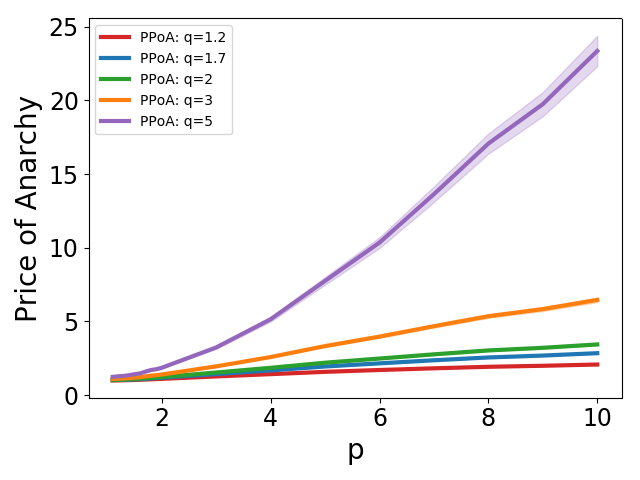
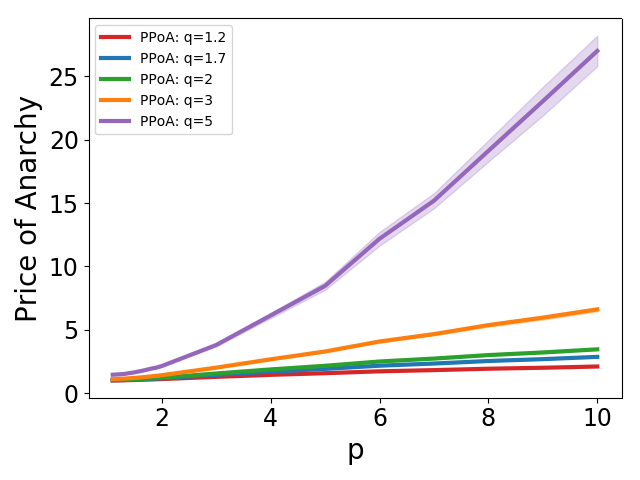
re-run experients

diff --git a/plot_from_csv.py b/plot_from_csv.py
@@ -2,64 +2,143 @@
 import csv
 import sys
 import matplotlib.pyplot as plt
+import numpy as np
+from constants import NUM_SIMS, ERROR_P, LEN_ERROR_P
 
-
-def plot(x_vals, xlabel, name, br_time_vals, sc_vals, sc_l1_vals=None, log=False):
+def plot(x_vals, xlabel, name, br_time_vals, br_vars, sc_vals, sc_vars, sc_l1_vals=None, sc_l1_vars=None, log=False):
     """ Plot the best response, iterations, social cost of equilibrium regression
     and social cost of L1 regression - all in one plot"""
-
     fig, ax1 = plt.subplots()
     color = 'tab:red'
-    ax1.set_xlabel(xlabel)
-    ax1.set_ylabel('BR Iterations', color=color)
+    #ax1.set_ylabel('BR Updates', color=color, fontsize=21)
     if log == True:
-        ax1.semilogx(x_vals, br_time_vals, color=color)
+        ax1.semilogx(x_vals, br_time_vals, color=color, linewidth=4)
+        ax1.fill_between(x_vals, br_time_vals-br_vars, br_time_vals+br_vars, color=color, alpha=0.35)
     else:
-        ax1.plot(x_vals, br_time_vals, color=color)
-    ax1.tick_params(axis='y', labelcolor=color)
-
+        ax1.plot(x_vals, br_time_vals, color=color, linewidth=4)
+        ax1.fill_between(x_vals, br_time_vals-br_vars, br_time_vals+br_vars, color=color, alpha=0.35)
+    ax1.tick_params(axis='x', labelsize=17)
+    ax1.tick_params(axis='y', labelcolor=color, labelsize=17)
+    
     color = 'tab:blue'
     ax2 = ax1.twinx()
-    ax2.set_ylabel('Social Cost', color=color)
+    ax2.set_ylabel('Price of Anarchy', color=color, fontsize=21)
     if log == True:
-        ax2.semilogx(x_vals, sc_vals, color=color)
+        ax2.semilogx(x_vals, sc_vals, color=color, linewidth=4)
+        ax2.fill_between(x_vals, sc_vals-sc_vars, sc_vals+sc_vars, color=color, alpha=0.25)
     else:
-        ax2.plot(x_vals, sc_vals, color=color)
+        ax2.plot(x_vals, sc_vals, color=color, linewidth=4)
+        ax2.fill_between(x_vals, sc_vals-sc_vars, sc_vals+sc_vars, color=color, alpha=0.25)
     
     if sc_l1_vals is not None:
         if log == True:
-            ax2.semilogx(x_vals, sc_l1_vals, color=color, linestyle=":")
+            ax2.semilogx(x_vals, sc_l1_vals, color=color, linestyle=":", linewidth=4)
         else:
-            ax2.plot(x_vals, sc_l1_vals, color=color, linestyle=':')
+            ax2.plot(x_vals, sc_l1_vals, color=color, linestyle=':', linewidth=4)
     
-    ax2.tick_params(axis='y', labelcolor=color)
-    plt.grid(True)
+    ax2.tick_params(axis='y', labelcolor=color, labelsize=17)
+    plt.grid(False)
     
     plt.tight_layout()
     plt.savefig(name)
     #plt.show()
 
+def plot_over_p(x_vals, xlabel, name, sc_vals, sc_vars, sc_l1_vals=None, sc_l1_vars=None, log=False):
+    """ Plot the best response, iterations, social cost of equilibrium regression
+    and social cost of L1 regression - all in one plot"""
+    fig, ax1 = plt.subplots()
+    colors = ['tab:red', 'tab:blue', 'tab:green', 'tab:orange', 'tab:purple']
+    ax1.set_xlabel('p', color='black', fontsize=20)
+    ax1.set_ylabel('Price of Anarchy', color='black', fontsize=20)
+    for i in range(LEN_ERROR_P):
+        if log == True:
+            ax1.semilogx(x_vals, sc_vals[i], color=colors[i], linewidth=3)
+            ax1.fill_between(x_vals, sc_vals[i]-sc_vars[i], sc_vals[i]+sc_vars[i], color=colors[i], alpha=0.25)
+        else:
+            ax1.plot(x_vals, sc_vals[i], color=colors[i], linewidth=3)
+            ax1.fill_between(x_vals, sc_vals[i]-sc_vars[i], sc_vals[i]+sc_vars[i], color=colors[i], alpha=0.25)
+        
+        if sc_l1_vals is not None:
+            if log == True:
+                ax1.semilogx(x_vals, sc_l1_vals[i], color=colors[i], linestyle=":", linewidth=4)
+            else:
+                ax1.plot(x_vals, sc_l1_vals[i], color=colors[i], linestyle=':', linewidth=4)
+    
+    legends = ['PPoA: q=1.2', 'PPoA: q=1.7', 'PPoA: q=2', 'PPoA: q=3', 'PPoA: q=5']
+    ax1.legend(legends)
+    ax1.tick_params(axis='x', labelsize=17)
+    ax1.tick_params(axis='y', labelcolor='black', labelsize=17)
+    plt.grid(False)
+    
+    plt.tight_layout()
+    plt.savefig(name)
+
 def read_from_csv(filename):
     csv_file = open(filename, mode='r')
     csv_reader = csv.reader(csv_file, delimiter=",")
-    social_cost, social_cost_l1, br_iters, x_vals = [], [], [], []
-   
+    social_cost, social_cost_l1, br_iters, x_vals = np.array([]), np.array([]), np.array([]), np.array([])
+    social_cost_var, social_cost_l1_var, br_iters_var = [], [], []
+    
+    social_costs, social_costs_l1, social_costs_var, social_costs_l1_var = [], [], [], []
+    for i in range(LEN_ERROR_P):
+        social_costs.append(np.array([]))
+        social_costs_l1.append(np.array([]))
+        social_costs_var.append(np.array([]))
+        social_costs_l1_var.append(np.array([]))
+
     # CSV format is: 
-    # <sweep param> <br iters> <var_br> <avg_sc> <avg_sc_var> <avg_sc_l1> <avg_sc_l1_var>
+    # <sweep param> <br iters> <var_br> <avg_sc> ... <avg_sc> <avg_sc_var> ... <avg_sc_var> <avg_sc_l1>...<avg_sc_l1>...<avg_sc_l1_var>...<avg_sc_l1_var>
     for row in csv_reader:
-        x_vals.append(float(row[0]))
-        br_iters.append(float(row[1]))
-        social_cost.append(float(row[3]))
-        social_cost_l1.append(float(row[5]))
+        # 95% confidence - scale of 1.96
+        scale = 1.96
         
-    return x_vals, br_iters, social_cost, social_cost_l1
+        x_vals = np.append(x_vals, float(row[0]))
+        br_iters = np.append(br_iters, float(row[1]))
+        br_iters_var = np.append(br_iters_var, float(row[2])/np.sqrt(NUM_SIMS)*scale)
+        
+        for i in range(LEN_ERROR_P):
+            social_costs[i] = np.append(social_costs[i], float(row[3+i]))
+        for i in range(LEN_ERROR_P):
+            social_costs_var[i] = np.append(social_costs_var[i], float(row[3+LEN_ERROR_P+i])/np.sqrt(NUM_SIMS)*scale)
+        for i in range(LEN_ERROR_P):
+            social_costs_l1[i] = np.append(social_costs_l1[i], float(row[3+(2*LEN_ERROR_P)+i]))
+        for i in range(LEN_ERROR_P):
+            social_costs_l1_var[i] = np.append(social_costs_l1_var[i], float(row[3+(3*LEN_ERROR_P)+i])/np.sqrt(NUM_SIMS)*scale)
+        
+    return x_vals, br_iters, br_iters_var, social_costs, social_costs_var, social_costs_l1, social_costs_l1_var
 
 if __name__ == "__main__":
-    """ Run this file as "./plot_from_csv <csv_file> <x_label> <log true/false> """
+    """ Run this file as "./plot_from_csv <csv_file> <x_label> <log true/false> <q_val true/false> <ppoa_plot true/false>"""
     filename = sys.argv[1]
     x_label = sys.argv[2]
     log_plot = sys.argv[3].lower() == 'true'
+    # whether to plot social cost/ppoa with p=2 or for all the different p listed in constants 
+    ppoa_p2 = True
+    if len(sys.argv) >= 5:
+        ppoa_p2 = sys.argv[4].lower() == 'true'
+    # Whether to plot the plot the variations due to computing PPoA with different p values
+    to_plot_over_p = False
+    if len(sys.argv) >= 6:
+        to_plot_over_p = sys.argv[5].lower() == 'true'
 
-    x_vals, br_iters, social_cost, social_cost_l1 = read_from_csv(filename)
-    plot(x_vals, x_label, x_label, br_iters, social_cost, social_cost_l1, log_plot)
+    assert((ppoa_p2 == True and to_plot_over_p == False) or \
+            (ppoa_p2 == False and to_plot_over_p == True))
+
+    x_vals, br_iters, br_iters_var, social_costs, social_costs_var, social_costs_l1, social_costs_l1_var = read_from_csv(filename)
+    
+    if ppoa_p2 == True:
+        index = ERROR_P.index(2)
+        social_costs, social_costs_var = social_costs[index], social_costs_var[index]
+        social_costs_l1, social_costs_l1_var = social_costs_l1[index], social_costs_l1_var[index]
+
+    if to_plot_over_p == True:
+        plot_over_p(x_vals, x_label, x_label, social_costs, social_costs_var, log=log_plot)
+    else:
+        plot(x_vals, x_label, x_label, br_iters, br_iters_var, social_costs, social_costs_var, \
+                social_costs_l1, social_costs_l1_var, log=log_plot)
+
+    
+    
+    #plot(x_vals, x_label, x_label, br_iters, br_iters_var, social_costs[0], social_costs_var[0], social_costs_l1[0], social_costs_l1_var[0], log=log_plot)
+    #plot_over_p(x_vals, x_label, x_label, social_costs, social_costs_var, log=log_plot)
 

diff --git a/main_parallel.py b/main_parallel.py
@@ -5,7 +5,7 @@ from best_response_algo import best_response_algo
 from p_regression import generate_data, fit_model
 #from plot_from_csv import plot
 import csv
-from constants import P, N, NUM_SIMS, ALPHA, XDIM, NUM_CORES, ERROR_P
+from constants import P, N, NUM_SIMS, ALPHA, XDIM, NUM_CORES, ERROR_P, NORMALIZE
 
 import time
 import concurrent.futures 
@@ -18,9 +18,9 @@ def run_simulation(tup):
     if len(tup) == 6:
         X, true_Y, n_, with_l1, p, a = tup
 
-    proj_Y = np.matmul(X, fit_model(X, true_Y))
-    errors_honest = [np.sum(np.power(np.abs(proj_Y - true_Y), k)) for k in ERROR_P]
-    
+    proj_Y = [np.matmul(X, fit_model(X, true_Y,p=k)) for k in ERROR_P]
+    errors_honest = [np.sum(np.power(np.abs(proj_Y[j] - true_Y), k)) for j, k in enumerate(ERROR_P)]
+
     if with_l1:
         proj_Y_l1 = np.matmul(X, fit_model(X, true_Y, p=1))
         errors_l1 = [np.sum(np.power(np.abs(proj_Y_l1 - true_Y), k)) for k in ERROR_P]
@@ -32,7 +32,7 @@ def run_simulation(tup):
     if equi_exists:
         proj = np.matmul(X, beta_equi)
         errors_equi = [np.sum(np.power(np.abs(proj - true_Y), k)) for k in ERROR_P]
-     
+
         if errors_equi[1] != 0 and errors_equi[1] != 0:
             social_cost = [errors_equi[k]/errors_honest[k] for k in range(len(ERROR_P))]
             social_cost_l1 = [errors_l1[k]/errors_honest[k] for k in range(len(ERROR_P))]
@@ -102,7 +102,7 @@ def sweep_p(p_vals, with_l1=False):
     Parallelize the simulations across multiple processes
     compute the best response iterations, social cost of equi and social cost of L1"""
     
-    csv_file = open("sweep_p.csv", mode='w')
+    csv_file = open("sweep_p_2.csv", mode='w')
     csv_writer = csv.writer(csv_file, delimiter=',')
     social_cost, social_cost_l1, br_iters, equi_found = np.ones((len(p_vals), len(ERROR_P))), np.ones((len(p_vals), len(ERROR_P))), [], []
     social_cost_var, social_cost_l1_var, br_iters_var = np.ones((len(p_vals), len(ERROR_P))), np.ones((len(p_vals), len(ERROR_P))), []
@@ -294,11 +294,11 @@ if __name__ == "__main__":
     #d_vals = np.concatenate([np.arange(1, 20, 2), np.arange(25, 35, 5), np.arange(30,100,10)])
     #sweep_d(d_vals, with_l1=True)
     
-    #p_vals = [1.1, 1.2, 1.3, 1.4, 1.5, 1.6, 1.7, 1.8, 1.9, 2, 3, 4, 5, 6, 7, 8, 9, 10]
-    #sweep_p(p_vals, with_l1=True)
+    p_vals = [1.4]
+    sweep_p(p_vals, with_l1=True)
 
-    a_vals = [0.1, 0.2, 0.3, 0.4, 0.5, 0.6, 0.7, 0.8, 0.9, 1.0]
-    sweep_alpha(a_vals, with_l1=True)
+    #a_vals = [0.1, 0.2, 0.3, 0.4, 0.5, 0.6, 0.7, 0.8, 0.9, 1.0]
+    #sweep_alpha(a_vals, with_l1=True)
     
     #benchmark_n()
 
